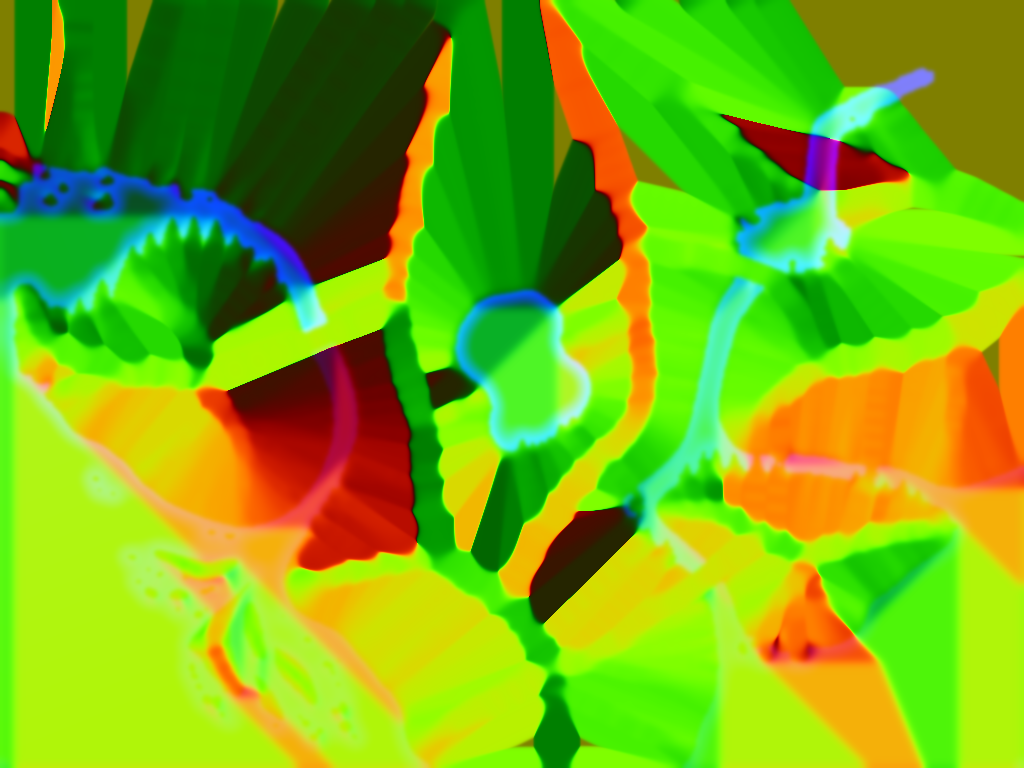
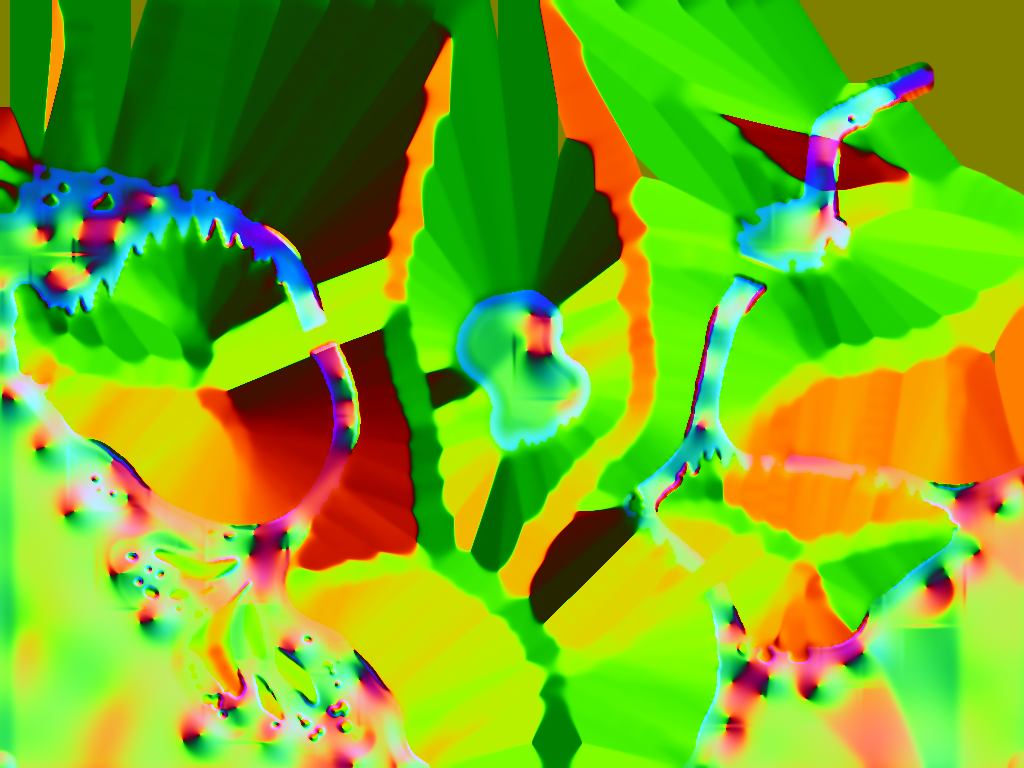
flow turbulence

diff --git a/board3d/terrain.js b/board3d/terrain.js
@@ -1199,7 +1199,7 @@ ${gtex ? `{
       rapids: { value: (() => { const t = new THREE.DataTexture(new Uint8Array([0, 0, 0, 255]), 1, 1); t.needsUpdate = true; return t; })() },
       rbox: { value: new THREE.Vector4(groundX0, groundZ0, groundW, groundH) },
       impactC: { value: new THREE.Vector2(9999, 9999) }, impactR: { value: 1.0 },
-      flowTex: { value: (() => { const t = new THREE.TextureLoader().load('./data/water-flow.png?v=2'); t.colorSpace = THREE.NoColorSpace; return t; })() } },
+      flowTex: { value: (() => { const t = new THREE.TextureLoader().load('./data/water-flow.png?v=3'); t.colorSpace = THREE.NoColorSpace; return t; })() } },
     vertexShader: `varying vec2 vUv; varying vec3 vPos;
       void main(){ vUv = uv; vPos = (modelMatrix * vec4(position, 1.0)).xyz; gl_Position = projectionMatrix * viewMatrix * vec4(vPos, 1.0); }`,
     fragmentShader: `uniform float time; uniform sampler2D dist; uniform vec2 lakeC[6]; uniform vec4 lakeR; uniform vec2 poolC; uniform sampler2D rapids; uniform sampler2D flowTex; uniform vec4 rbox; uniform vec2 impactC; uniform float impactR; varying vec2 vUv; varying vec3 vPos;
@@ -2527,7 +2527,7 @@ ${gtex ? `{
           rap[j * RES + i] = Math.max(rap[j * RES + i], amp * Math.exp(-(u * u + v * v) * 1.6));
         }
       };
-      const flowImg = await loadMask('./data/water-flow.png?v=2').catch(() => null);
+      const flowImg = await loadMask('./data/water-flow.png?v=3').catch(() => null);
       const flowAt = (x, z) => {
         if (!flowImg) return null;
         const i = Math.min(flowImg.w - 1, Math.max(0, Math.floor((x - groundX0) / groundW * flowImg.w)));

diff --git a/board3d/board3d.js b/board3d/board3d.js
@@ -9,7 +9,7 @@ import { GLTFLoader } from './vendor/three/jsm/loaders/GLTFLoader.js';
 import * as SkeletonUtils from './vendor/three/jsm/utils/SkeletonUtils.js';
 import { mergeGeometries } from './vendor/three/jsm/utils/BufferGeometryUtils.js';
 import { buildAtmosphere } from './atmosphere.js?v=30';
-import { buildTerrain } from './terrain.js?v=274';
+import { buildTerrain } from './terrain.js?v=275';
 
 const t0 = 0;   // считаем от начала навигации: HTML, three.js, карта, модели
 const MOVE_RANGE = 6;          // как сумма кубиков в обычном ходу

diff --git a/board3d/index.html b/board3d/index.html
@@ -43,6 +43,6 @@
     <button data-act="bench">Тест FPS</button>
   </div>
 
-  <script type="module" src="./board3d.js?v=339"></script>
+  <script type="module" src="./board3d.js?v=340"></script>
 </body>
 </html>
